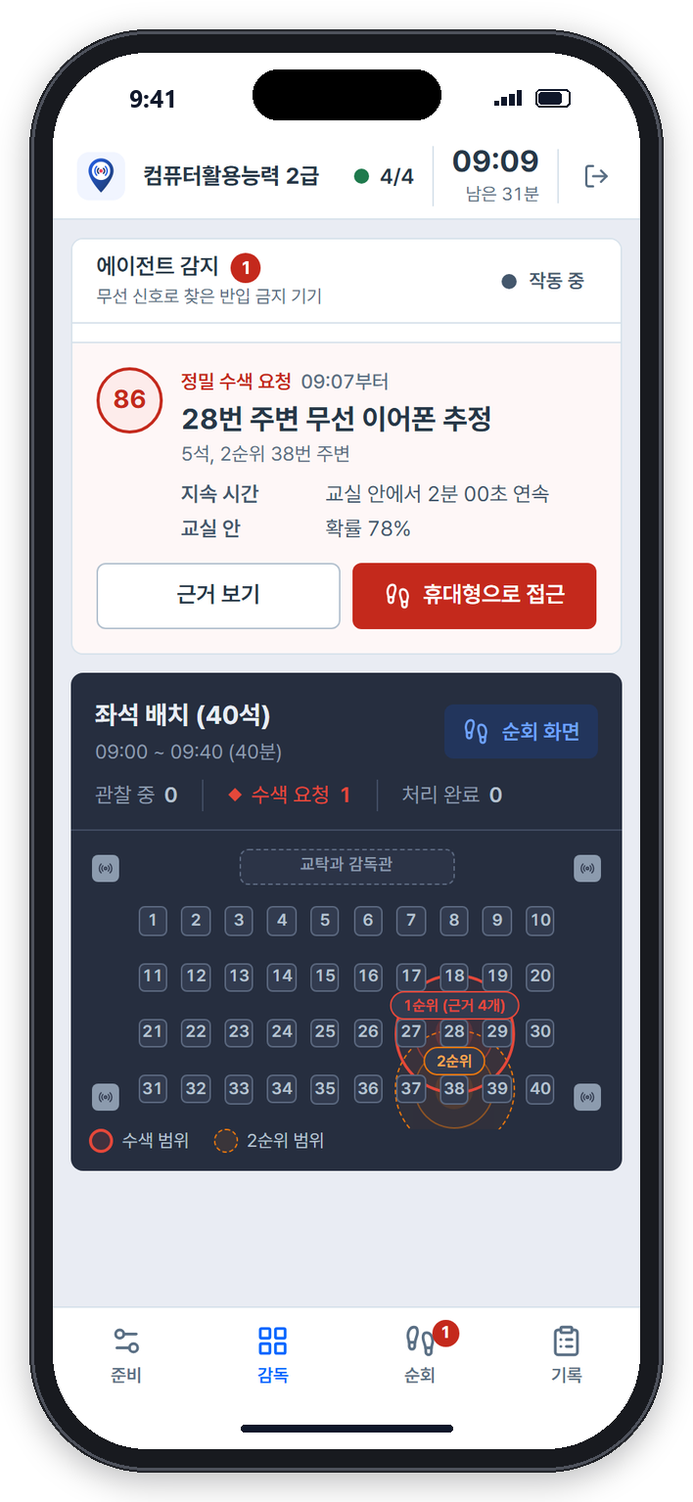
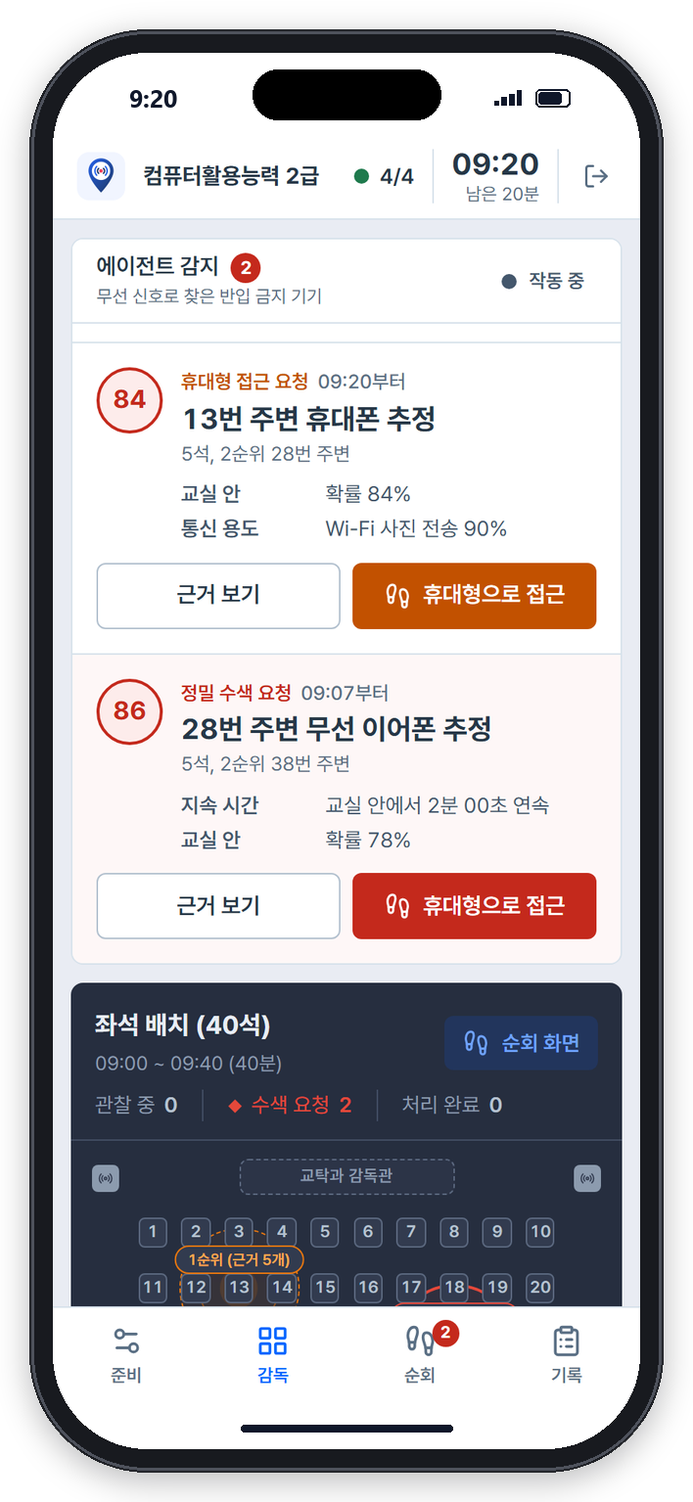
위쪽 줄 시각 세로 정렬 수정, README 대표 이미지 다시 캡처
- 남은 시간 줄 행간을 줄여 시각 묶음이 위쪽 줄 가운데에 오도록 수정
- 대표 이미지 휴대폰 상태 표시줄 시각을 앱 시각(9:20)과 맞춤
- 감독 화면 태블릿 · 휴대폰 캡처 교체

diff --git a/frontend/src/routes/AppShell.tsx b/frontend/src/routes/AppShell.tsx
@@ -155,7 +155,7 @@ function Shell({ role }: { role: Role }) {
 
             <div className="border-l border-line pl-3 text-right medium:pl-4">
               <div className="num text-xl leading-none font-bold medium:text-fs22">{running || clock?.state === "ended" ? clock!.clock.slice(0, 5) : "--:--"}</div>
-              <div className="num mt-1 text-xs text-fg-3">{running ? `남은 ${left}분` : clock?.state === "ended" ? "종료" : "시작 전"}</div>
+              <div className="num mt-1 text-xs leading-none text-fg-3">{running ? `남은 ${left}분` : clock?.state === "ended" ? "종료" : "시작 전"}</div>
             </div>
 
             {/* 로그인한 계정 · 로그아웃 (휴대폰은 아이콘만) */}

diff --git a/README.md b/README.md
@@ -14,7 +14,7 @@
 
 <br/>
 
-<img src="docs/images/hero_v2.png" width="92%" alt="WaveSpot 감독관 앱 · 태블릿과 휴대폰 화면"/>
+<img src="docs/images/hero_v3.png" width="92%" alt="WaveSpot 감독관 앱 · 태블릿과 휴대폰 화면"/>
 
 </div>
 
